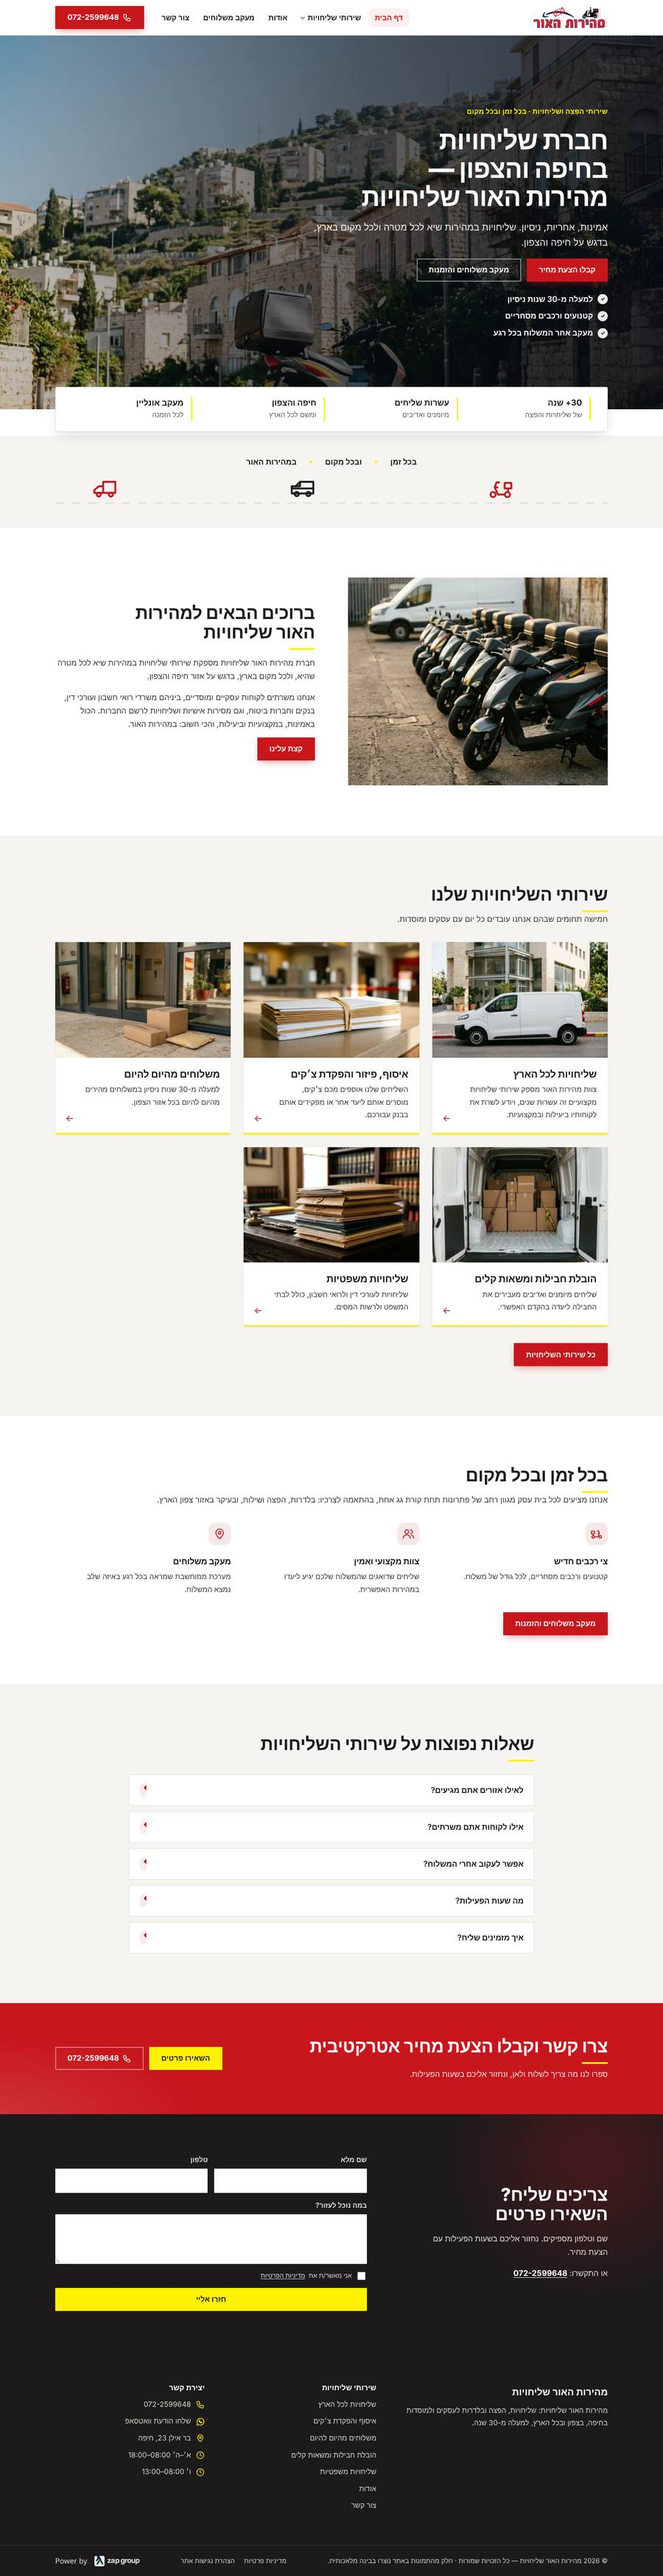
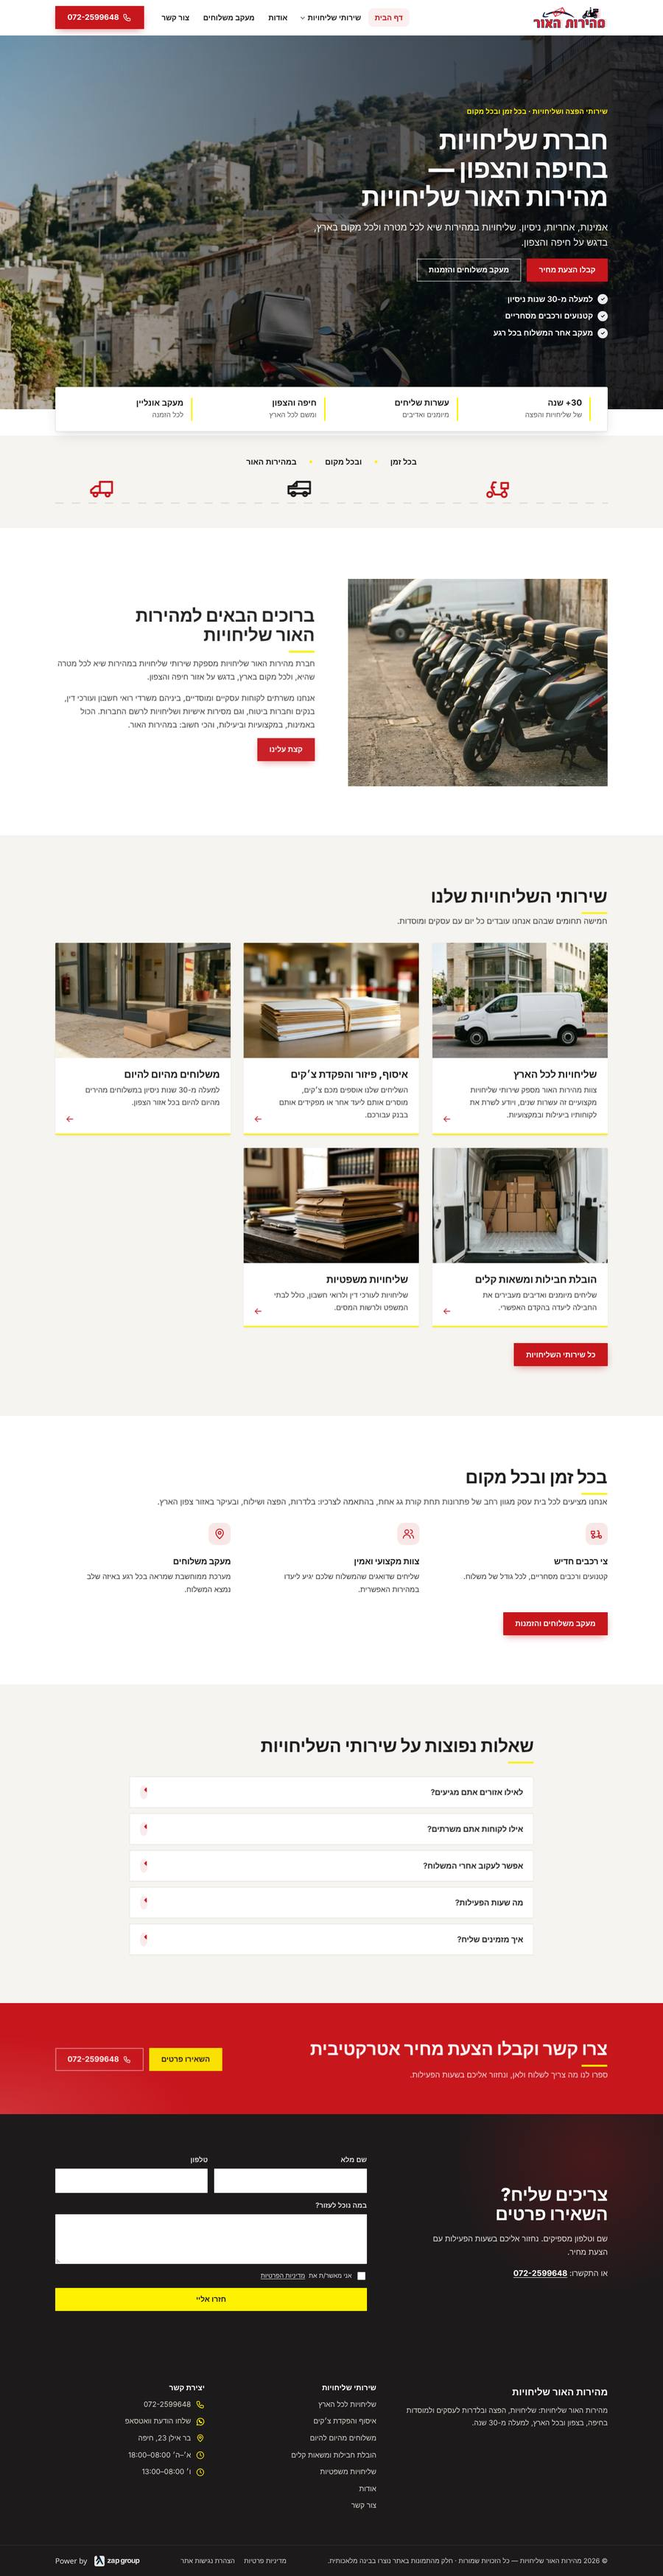
mehirut-haor: lively motion, preview refresh; theme: clip lively hero photo to its frame
Claude-Session: https://claude.ai/code/session_01EGxYKywkt3VsBbtcmvV4mm

diff --git a/wp/theme/zap-base/assets/main.css b/wp/theme/zap-base/assets/main.css
@@ -484,6 +484,9 @@ body:not(.zs-m-none) .zs-hero__text > .elementor-element:nth-child(3) { animatio
 body:not(.zs-m-none) .zs-hero__text > .elementor-element:nth-child(4) { animation-delay: .24s; }
 body:not(.zs-m-none) .zs-hero__text > .elementor-element:nth-child(n+5) { animation-delay: .32s; }
 .zs-m-lively .zs-hero__img img { transform: scale(1.06); will-change: transform; }
+/* keep the scaled/parallax photo inside its frame (split + centered heroes would otherwise overlap the text) */
+.zs-m-lively .zs-hero__img .elementor-widget-container, .zs-m-lively .zs-hero__img { overflow: hidden; border-radius: var(--r-lg); }
+.zs-hv-image.zs-m-lively .zs-hero__img .elementor-widget-container, .zs-hv-image.zs-m-lively .zs-hero__img { border-radius: 0; }
 .zs-feature__icon .zs-svg, .zs-card__icon .zs-svg { transition: transform .35s var(--ease); }
 .zs-m-lively .e-con.zs-feature:hover .zs-feature__icon .zs-svg, .zs-m-lively .e-con.zs-card:hover .zs-card__icon .zs-svg { transform: rotate(-6deg) scale(1.08); }
 body:not(.zs-m-none) .e-con.zs-feature { transition: transform .3s var(--ease); }

diff --git a/sites/mehirut-haor/QA-REPORT.md b/sites/mehirut-haor/QA-REPORT.md
@@ -10,23 +10,23 @@
 
 | viewport | page | errors | warnings | KB | details |
 |---|---|---|---|---|---|
-| desktop | /שירותי-שליחויות/משלוחים-מהיום-להיום/ | 0 | 0 | 807 |  |
-| desktop | /שירותי-שליחויות/הובלת-חבילות-ומשאות-קלים/ | 0 | 0 | 816 |  |
-| desktop | /שירותי-שליחויות/שליחויות-משפטיות/ | 0 | 0 | 819 |  |
-| desktop | /שירותי-שליחויות/ | 0 | 0 | 1168 |  |
-| desktop | /אודות/ | 0 | 0 | 1077 |  |
-| desktop | /צור-קשר/ | 0 | 0 | 706 |  |
-| desktop | /מדיניות-פרטיות/ | 0 | 1 | 483 | meta description length 73 |
-| desktop | /שירותי-שליחויות/שליחויות-לכל-הארץ/ | 0 | 0 | 852 |  |
-| desktop | /שירותי-שליחויות/איסוף-והפקדת-צקים/ | 0 | 0 | 803 |  |
-| desktop | / | 0 | 0 | 1259 |  |
-| mobile | /שירותי-שליחויות/משלוחים-מהיום-להיום/ | 0 | 0 | 747 |  |
-| mobile | /שירותי-שליחויות/הובלת-חבילות-ומשאות-קלים/ | 0 | 0 | 750 |  |
-| mobile | /שירותי-שליחויות/שליחויות-משפטיות/ | 0 | 0 | 756 |  |
-| mobile | /שירותי-שליחויות/ | 0 | 0 | 1062 |  |
-| mobile | /אודות/ | 0 | 0 | 940 |  |
-| mobile | /צור-קשר/ | 0 | 0 | 669 |  |
-| mobile | /מדיניות-פרטיות/ | 0 | 1 | 446 | meta description length 73 |
-| mobile | /שירותי-שליחויות/שליחויות-לכל-הארץ/ | 0 | 0 | 771 |  |
-| mobile | /שירותי-שליחויות/איסוף-והפקדת-צקים/ | 0 | 0 | 746 |  |
-| mobile | / | 0 | 0 | 1149 |  |
+| desktop | /שירותי-שליחויות/משלוחים-מהיום-להיום/ | 0 | 0 | 813 |  |
+| desktop | /שירותי-שליחויות/הובלת-חבילות-ומשאות-קלים/ | 0 | 0 | 822 |  |
+| desktop | /שירותי-שליחויות/שליחויות-משפטיות/ | 0 | 0 | 825 |  |
+| desktop | /שירותי-שליחויות/ | 0 | 0 | 1174 |  |
+| desktop | /אודות/ | 0 | 0 | 1083 |  |
+| desktop | /צור-קשר/ | 0 | 0 | 712 |  |
+| desktop | /מדיניות-פרטיות/ | 0 | 1 | 489 | meta description length 73 |
+| desktop | /שירותי-שליחויות/שליחויות-לכל-הארץ/ | 0 | 0 | 859 |  |
+| desktop | /שירותי-שליחויות/איסוף-והפקדת-צקים/ | 0 | 0 | 809 |  |
+| desktop | / | 0 | 0 | 1266 |  |
+| mobile | /שירותי-שליחויות/משלוחים-מהיום-להיום/ | 0 | 0 | 754 |  |
+| mobile | /שירותי-שליחויות/הובלת-חבילות-ומשאות-קלים/ | 0 | 0 | 757 |  |
+| mobile | /שירותי-שליחויות/שליחויות-משפטיות/ | 0 | 0 | 762 |  |
+| mobile | /שירותי-שליחויות/ | 0 | 0 | 1068 |  |
+| mobile | /אודות/ | 0 | 0 | 946 |  |
+| mobile | /צור-קשר/ | 0 | 0 | 675 |  |
+| mobile | /מדיניות-פרטיות/ | 0 | 1 | 453 | meta description length 73 |
+| mobile | /שירותי-שליחויות/שליחויות-לכל-הארץ/ | 0 | 0 | 778 |  |
+| mobile | /שירותי-שליחויות/איסוף-והפקדת-צקים/ | 0 | 0 | 752 |  |
+| mobile | / | 0 | 0 | 1155 |  |

diff --git a/sites/mehirut-haor/NOTES.md b/sites/mehirut-haor/NOTES.md
@@ -19,6 +19,7 @@ Zap customer 80240748 (from the brief title; not confirmed as the Dapei Zahav cu
 | facebook | https://www.facebook.com/מהירות-האור-1482628425325474 | brief |
 
 ## Decisions (user, 2026-10-07)
+- design.motion = lively (brief: "אתר חדשני עם אנימציות של רכבים/אופנועים זזים") + `road` section on home.
 - "החברה המובילה בצפון" removed → "חברת שליחויות ותיקה בצפון הארץ".
 - "טכנולוגיית WAP" → "מערכת מעקב אונליין".
 - No food deliveries anywhere on the site (brief).
@@ -56,3 +57,4 @@ hi-tech. Fear: a document/cheque that does not arrive on time, or a courier who 
 ## Engine changes made in this session (generic)
 - New section `road` (animated vehicles lane, CSS only, static under reduced motion) + icons `scooter`, `van`.
 - Screenshots: tall viewport instead of full_page (Chromium dropped off-screen images in previews).
+- Motion layer fix: `lively` hero photo is clipped to its frame (it overlapped the text on mobile split/centered heroes).
